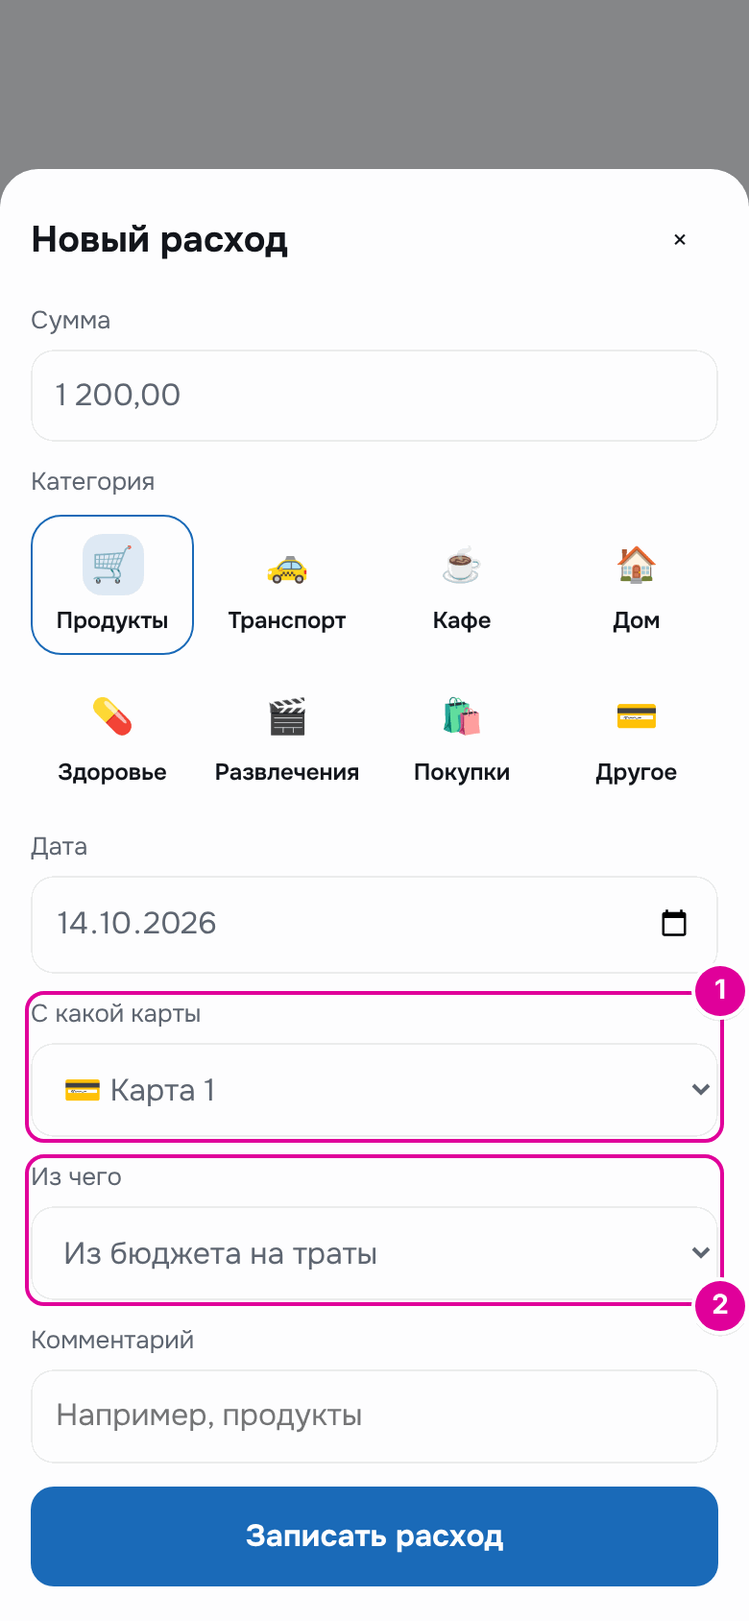
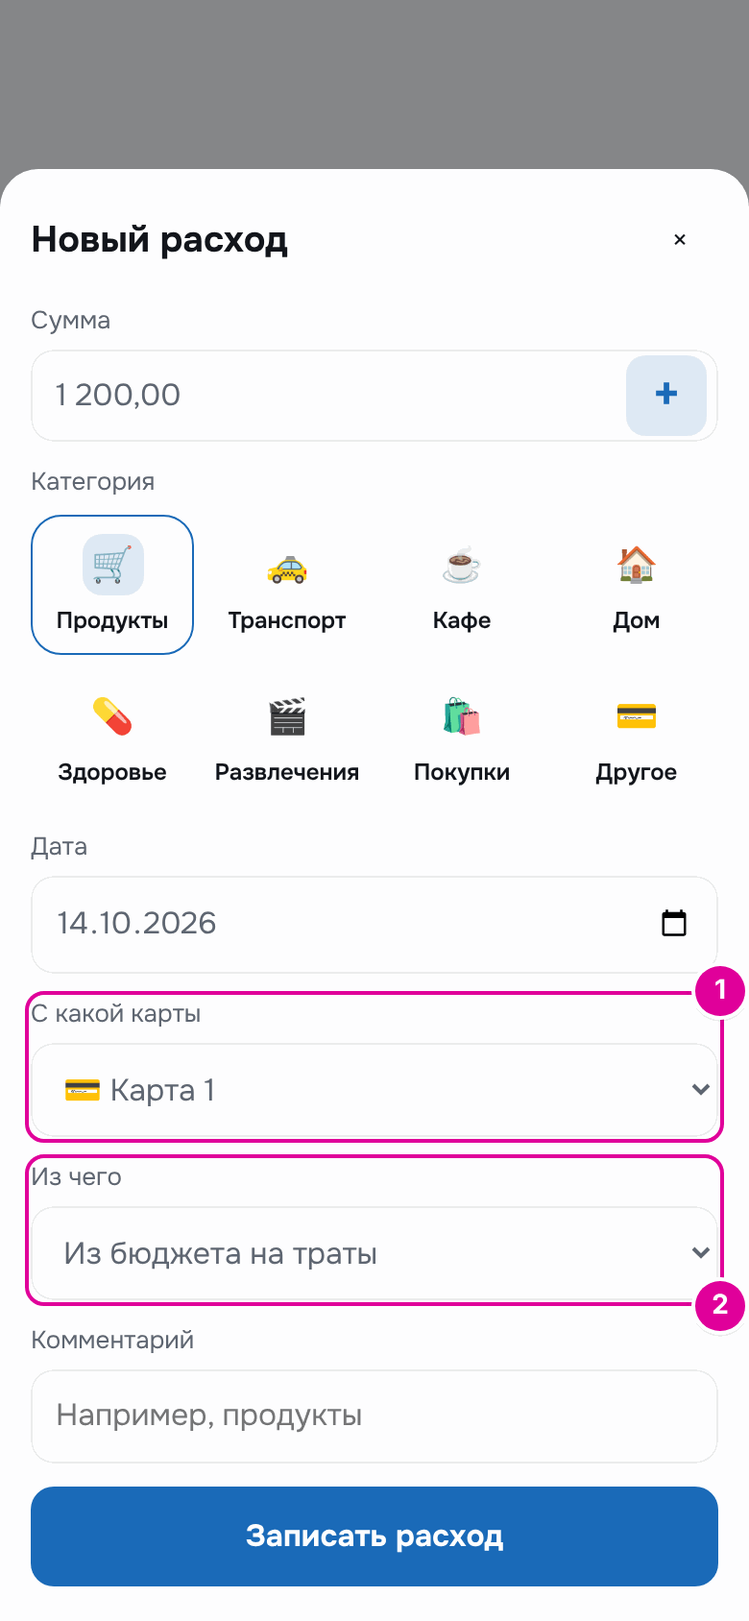
Инструкция: несколько сумм в расходе, фильтр «Сегодня», все операции категории
Глава «Траты»: раздел о том, как сложить несколько чеков кнопкой «+»
в поле «Сумма», с примером до и после; кнопка «Сегодня» в «Операциях»
и её сочетание с «Расходы». Глава «Аналитика»: кнопка «Показать все
операции (N)» и «Свернуть» вместо строки «ещё N опер.». Два новых
вопроса в «Частых вопросах».

Скрипт скриншотов: сцены для новых экранов, список операций категории
ищется в новой разметке, глава 7 снимается и отдельно (--only 7).
Картинки пересняты: изменились только экраны с новыми элементами,
числа на остальных совпали.

Claude-Session: https://claude.ai/code/session_0143f4Q749cudeMqqZzRdRZB

Changed region(s): [[0.8308, 0.2156, 0.9538, 0.2773]]

diff --git a/scripts/make_guide_screenshots.py b/scripts/make_guide_screenshots.py
@@ -1121,10 +1121,14 @@ def ch07(app: App, sh: Shooter, texts: dict) -> None:
     sh.shot("07-expense-result.png", [
         M(1, "#leftToday"), M(2, "#todayHero .hero-row span:last-child", pad=3),
     ], facts=HOME_FACTS)
+    # То же, что снимок главы 3: глава снимается и отдельно (--only 7).
+    app.save("payroll-cafe")
+    sh.open()
     sh.nav("operations")
     first = sh.page.locator("#transactionsList .transaction-week").first
     sh.shot("07-operations-list.png", [
-        M(1, ".page.active .segmented", pad=3), M(2, "#txSearch", pad=3), M(3, "#txChips", pad=3),
+        M(1, ".page.active .segmented", pad=3), M(2, "#txSearch", "mr", pad=3),
+        M(3, "#txChips", "mr", pad=3),
         M(4, first.locator(".transaction-week-toggle"), pad=2),
         M(5, first.locator(".actions .tiny:not(.danger)").first, pad=2),
         M(6, first.locator(".actions .tiny.danger").first, pad=2),
@@ -1135,8 +1139,20 @@ def ch07(app: App, sh: Shooter, texts: dict) -> None:
     sh.page.fill("#txSearch", "")
     sh.page.locator("#txSearch").dispatch_event("input")
     sh.page.wait_for_timeout(200)
+    sh.page.click("#txToday")
+    sh.page.click('[data-txf="expense"]')
+    sh.page.wait_for_timeout(200)
+    group = sh.page.locator("#transactionsList .transaction-week").first
+    sh.shot("07-operations-today.png", [
+        M(1, "#txToday", "tl", pad=2), M(2, '[data-txf="expense"]', pad=2),
+        M(3, group.locator(".transaction-week-toggle"), pad=2),
+    ], facts={"Сегодня": group.locator(".transaction-week-toggle")})
+    sh.page.click("#txToday")
+    sh.page.click('[data-txf="all"]')
+    sh.page.wait_for_timeout(200)
     sh.page.locator("#transactionsList .list-row", has_text="Обед").first.locator(".actions .tiny:not(.danger)").click()
     sh.page.fill("#expenseAmount", "520")
+    d = dlg(sh, "expenseDialog")
     sh.shot("07-expense-edit.png", [M(1, label(d, "Сумма"), pad=3), M(2, "#saveExpenseBtn", pad=3)])
     d.locator("[data-close]").click()
     # Перерасход: кроссовки за 2 000 ₽ при остатке на сегодня 1 028,94 ₽.
@@ -1165,6 +1181,30 @@ def ch07(app: App, sh: Shooter, texts: dict) -> None:
     sh.shot("07-overspend-next-day.png", [
         M(1, "#todayHero .hero-row span:first-child", pad=3), M(2, "#cardCash >> xpath=.."),
     ], facts=HOME_FACTS)
+    # Несколько сумм в одной трате: три чека в продуктовом.
+    app.load("payroll")
+    payroll_today(app)
+    sh.open()
+    sh.page.click("#quickExpenseBtn")
+    d = dlg(sh, "expenseDialog")
+    for value in ("305", "589"):
+        sh.page.fill("#expenseAmount", value)
+        sh.page.click("#expenseAddPart")
+    sh.page.fill("#expenseAmount", "102")
+    d.locator(".cat-tile", has_text="Продукты").click()
+    sh.shot("07-expense-parts.png", [
+        M(1, "#expenseAddPart", pad=2), M(2, "#expenseParts .sum-part >> nth=0", pad=2),
+        M(3, "#expenseParts .sum-total", pad=3), M(4, "#saveExpenseBtn", pad=3),
+    ], facts={"Итого": "#expenseParts .sum-total"})
+    sh.page.click("#saveExpenseBtn")
+    sh.settle()
+    sh.scroll_top()
+    sh.shot("07-expense-parts-home.png", [M(1, "#leftToday")], facts=HOME_FACTS)
+    sh.nav("operations")
+    row = sh.page.locator("#transactionsList .list-row").first
+    sh.shot("07-expense-parts-result.png", [
+        M(1, row.locator(".row-title"), pad=3), M(2, row.locator(".amount"), pad=3),
+    ], facts={"Строка": row})
 
 
 # --- 8. Обязательные платежи ----------------------------------------------------------
@@ -1369,15 +1409,29 @@ def ch11(app: App, sh: Shooter, texts: dict) -> None:
         M(3, ".analytics-total-row", pad=3), M(4, "#analyticsKinds", pad=3),
     ], facts={"Подпись": "#analyticsTotalCaption", "Всего": "#analyticsTotal", "Сравнение": "#analyticsDelta",
               "Виды": "#analyticsKinds", "Месяц": "#analyticsLabel"})
-    first = sh.page.locator("#analyticsCategories .analytics-cat").first
-    first.click()
+    sh.page.locator("#analyticsCategories .analytics-cat").first.click()
     sh.page.wait_for_timeout(200)
-    first = sh.page.locator("#analyticsCategories .analytics-cat").first
+    first = sh.page.locator("#analyticsCategories .analytics-cat-item").first
     sh.scroll(".analytics-cats-card", "start")
     sh.shot("11-analytics-categories.png", [
         M(1, first.locator(".top"), pad=3), M(2, first.locator(".meta"), pad=3),
         M(3, first.locator(".analytics-drill"), pad=3),
+        M(4, first.locator(".analytics-more"), pad=3),
     ], facts={"Категории": "#analyticsCategories"})
+    sh.page.locator("#analyticsCategories .analytics-cat").first.click()
+    # Полный список — у категории, где операций немного больше трёх: он целиком на экране.
+    cats = app.get("/api/analytics?mode=month")["categories"]
+    small = min((c for c in cats if c["count"] > 3), key=lambda c: c["count"])
+    item = sh.page.locator("#analyticsCategories .analytics-cat-item", has_text=small["title"])
+    item.locator(".analytics-cat").click()
+    sh.page.wait_for_timeout(200)
+    item.locator(".analytics-more").click()
+    sh.page.wait_for_timeout(200)
+    sh.scroll(item, "start")
+    sh.shot("11-analytics-categories-all.png", [
+        M(1, item.locator(".analytics-drill"), pad=3), M(2, item.locator(".analytics-more"), pad=3),
+    ], facts={"Категория": item})
+    item.locator(".analytics-cat").click()
     sh.scroll("#analyticsDaysCard", "center")
     sh.shot("11-analytics-days.png", [M(1, "#analyticsDays", pad=3), M(2, "#analyticsDaysLegend", pad=3)],
             facts={"Легенда": "#analyticsDaysLegend"})

diff --git a/docs/guide/07-expenses.md b/docs/guide/07-expenses.md
@@ -33,6 +33,8 @@
 
 Если категорий больше восьми, последняя плитка называется «Ещё». Она показывает остальные категории.
 
+Если за покупку было несколько чеков, их можно сложить прямо в этом окне. Как это сделать — ниже, после примера.
+
 ## Пример
 
 14 октября «Осталось на сегодня» 1 478,94 ₽, «Потрачено» 700,00 ₽. Человек записывает обед за 450 ₽ в категорию «Кафе».
@@ -43,17 +45,51 @@
 
 *1 — остаток на сегодня уменьшился на 450 ₽. 2 — потрачено выросло на 450 ₽.*
 
+## Пошагово: несколько сумм в одной трате
+
+Бывает, что одна трата складывается из нескольких чеков. Например, вы зашли за продуктами в три магазина подряд. Складывать суммы в уме не нужно: в поле «Сумма» есть кнопка «+». Она работает как калькулятор: суммы складываются, а записывается одна трата на итог.
+
+![Окно «Новый расход»: в поле «Сумма» 102,00, под полем суммы 305 и 589 с крестиками, «Итого 996,00 ₽», выбрана категория «Продукты», кнопка «Записать расход»](images/07-expense-parts.png)
+
+*Номера совпадают с шагами.*
+
+1. Введите первую сумму и нажмите «+» справа в поле «Сумма». Сумма переместится под поле, а поле очистится для следующей. Так же добавьте остальные суммы.
+2. Добавленные суммы видны под полем. Ошиблись — нажмите на сумму с крестиком, и она уберётся.
+3. «Итого» — все суммы вместе с той, что сейчас в поле. Последнюю сумму переносить кнопкой «+» не нужно.
+4. Выберите категорию и нажмите «Записать расход».
+
+### Пример
+
+14 октября «Осталось на сегодня» 1 478,94 ₽, «Потрачено» 700,00 ₽. Человек покупает продукты тремя чеками: 305 ₽, 589 ₽ и 102 ₽. Он вводит 305 и нажимает «+», вводит 589 и нажимает «+», вводит 102, выбирает «Продукты» и нажимает «Записать расход».
+
+| Число | До записи | После записи |
+| --- | --- | --- |
+| «Осталось на сегодня» | 1 478,94 ₽ | 482,94 ₽ |
+| «Потрачено» | 700,00 ₽ | 1 696,00 ₽ |
+
+Остаток уменьшился на 996 ₽ — на сумму всех трёх чеков.
+
+![Главный экран после записи трёх чеков: «Осталось на сегодня» 482,94 ₽](images/07-expense-parts-home.png)
+
+*1 — остаток на сегодня.*
+
+Комментарий человек не заполнял, поэтому приложение само записало в него, из каких сумм сложилась трата.
+
+![Раздел «Операции»: первая строка «305 + 589 + 102», «14 окт. · Продукты», −996,00 ₽](images/07-expense-parts-result.png)
+
+*1 — комментарий с суммами чеков. 2 — одна трата на итог.*
+
 ## Пошагово: найти, изменить, удалить
 
 Все записи — в разделе «Операции» на нижней панели.
 
-![Раздел «Операции». Отмечены вкладки «Повседневные» и «Обязательные», поле «Поиск по операциям», кнопки «Все», «Расходы», «Доходы», «Копилка», заголовок недели «12 окт. — 18 окт.», кнопки «Изменить» и «Удалить»](images/07-operations-list.png)
+![Раздел «Операции». Отмечены вкладки «Повседневные» и «Обязательные», поле «Поиск по операциям», кнопки «Сегодня», «Все», «Расходы», «Доходы», «Копилка», заголовок недели «12 окт. — 18 окт.», кнопки «Изменить» и «Удалить»](images/07-operations-list.png)
 
 *Номера совпадают с пунктами.*
 
 1. Вкладки «Повседневные» и «Обязательные». На второй — оплаченные обязательные платежи.
 2. Поле «Поиск по операциям». Ищет по комментарию, категории и названию платежа.
-3. Кнопки «Все», «Расходы», «Доходы», «Копилка» оставляют в списке только операции одного вида.
+3. Кнопка «Сегодня» оставляет в списке только сегодняшние операции. Кнопки «Все», «Расходы», «Доходы», «Копилка» оставляют только операции одного вида.
 4. Операции сгруппированы по неделям. В заголовке недели — сколько операций и сколько потрачено. Нажмите заголовок, чтобы свернуть или развернуть неделю.
 5. «Изменить» открывает трату в том же окне, что и при записи. Поменяйте сумму, категорию, дату или комментарий и нажмите «Записать расход».
 6. «Удалить» удаляет запись. Приложение переспросит: «Удалить операцию?».
@@ -61,6 +97,14 @@
 ![Поиск по слову «кафе»: в списке остались только траты категории «Кафе»](images/07-operations-search.png)
 
 *1 — в поиске набрано «кафе». В списке остались траты этой категории.*
+
+Кнопку «Сегодня» можно сочетать с остальными. Например, «Сегодня» и «Расходы» вместе показывают только сегодняшние траты. Так удобно вечером проверить, всё ли записано за день.
+
+![Раздел «Операции» с включёнными кнопками «Сегодня» и «Расходы»: группа «Сегодня, 14 окт.», «3 операции», −1 150,00 ₽, траты «Обед», «Метро», «Молоко и хлеб»](images/07-operations-today.png)
+
+*1 — «Сегодня». 2 — «Расходы». 3 — вместо недель одна группа «Сегодня, 14 окт.»: сколько операций и сколько потрачено за день.*
+
+Чтобы снова видеть все дни, нажмите «Сегодня» ещё раз. На вкладке «Обязательные» этих кнопок нет.
 
 ![Окно расхода при изменении траты: сумма исправлена на 520,00, кнопка «Записать расход»](images/07-expense-edit.png)
 
@@ -124,6 +168,9 @@
 - Трату, оплаченную из копилки, можно записать и сразу. Для этого перенесите деньги из копилки «На сегодня», как в главе [«Копилка»](09-piggy.md).
 - Трата задним числом пересчитывает и сегодняшний лимит. Пример — в главе [«Типичные ситуации»](15-situations.md).
 - Если включены карты и счета, в окне расхода есть ещё поля «С какой карты» и «Из чего». Подробнее — в главе [«Карты и счета»](12-accounts.md).
+- Все суммы, сложенные кнопкой «+», попадают в одну категорию. Если чеки за разное — например, продукты и лекарства, — запишите их отдельными тратами.
+- Если комментарий заполнен, приложение его не меняет: суммы чеков в него не дописываются.
+- Если на клавиатуре есть знак +, он работает так же, как кнопка «+». Можно вставить и готовую запись вида 305+589+102: она разложится на суммы.
 
 ---
 [← Режим «Подработки»](06-side-jobs.md) · [Оглавление](README.md) · [Обязательные платежи →](08-bills.md)

diff --git a/docs/guide/11-analytics.md b/docs/guide/11-analytics.md
@@ -23,13 +23,18 @@
 
 Блок «На что потрачено» показывает только обычные траты, по категориям. Сверху — самая большая категория.
 
-![Блок «На что потрачено». У категории «Продукты» 17 100 ₽ отмечены строка с суммой, подписи «76% трат» и «▼ 14%» и раскрытый список крупных покупок](images/11-analytics-categories.png)
+![Блок «На что потрачено». У категории «Продукты» 17 100 ₽ отмечены строка с суммой, подписи «76% трат» и «▼ 14%», раскрытый список трёх крупных покупок и кнопка «Показать все операции (12)»](images/11-analytics-categories.png)
 
 *Номера совпадают с пунктами.*
 
 1. Название категории и сумма. Полоса показывает её размер относительно самой большой.
 2. Доля среди всех обычных трат и изменение к прошлому месяцу. Слово «новая» значит, что в прошлом месяце на эту категорию не тратили.
-3. Нажмите на категорию, и раскроется список самых крупных покупок в ней. Если покупок больше, внизу написано «ещё … опер.».
+3. Нажмите на категорию, и раскроется список трёх самых крупных покупок в ней. Повторное нажатие сворачивает список.
+4. Если покупок больше трёх, под списком есть кнопка «Показать все операции (12)». В скобках — сколько всего покупок в категории. Кнопка раскрывает весь список.
+
+![Категория «Транспорт» 830 ₽ с раскрытым списком всех семи поездок, от «Метро, 13 окт.» 350 ₽ до «Метро, 14 окт.» 60 ₽, и кнопка «Свернуть»](images/11-analytics-categories-all.png)
+
+*1 — все покупки категории за месяц, самые крупные сверху. 2 — «Свернуть» снова оставляет три самые крупные.*
 
 ## По дням
 

diff --git a/docs/guide/16-faq.md b/docs/guide/16-faq.md
@@ -20,6 +20,14 @@
 
 Это деньги на траты нового периода. В день выплаты они уже ушли из буфера, но тратить их можно только со следующего дня. Утром они появятся «На карте».
 
+## Покупка оплачена несколькими чеками. Записывать каждый отдельно?
+
+Не обязательно. В окне расхода введите первую сумму и нажмите «+» в поле «Сумма», потом введите следующую. Запишется одна трата на итог. Если комментарий пустой, приложение запишет в него, из каких сумм она сложилась. Подробнее — в главе [«Траты»](07-expenses.md).
+
+## Как посмотреть только сегодняшние траты?
+
+Откройте «Операции» и нажмите кнопки «Сегодня» и «Расходы». Вверху списка будет итог за день. Подробнее — в главе [«Траты»](07-expenses.md).
+
 ## Я несколько дней не записывал траты. Что делать?
 
 Запишите их, указав в поле «Дата» настоящий день каждой траты. Приложение пересчитает лимит на оставшиеся дни. Пример — в главе [«Типичные ситуации»](15-situations.md).

diff --git a/docs/guide/README.md b/docs/guide/README.md
@@ -14,7 +14,7 @@
 4. [Как устроен бюджет](04-budget.md) — конверты простыми словами, со схемами.
 5. [Режим «Зарплата и аванс»](05-payroll.md) — выплаты, буфер, «Получил ✓», отпуск, стартовый капитал.
 6. [Режим «Подработки»](06-side-jobs.md) — доход без графика, резерв, растягивание денег.
-7. [Траты](07-expenses.md) — записать, изменить, найти; что делать при перерасходе.
+7. [Траты](07-expenses.md) — записать, сложить несколько чеков, изменить, найти; что делать при перерасходе.
 8. [Обязательные платежи](08-bills.md) — добавить, оплатить, заплатить меньше плана.
 9. [Копилка](09-piggy.md) — отложить, пополнить, взять на карту, снять.
 10. [Категории](10-categories.md) — добавить, переименовать, поменять порядок, удалить.
